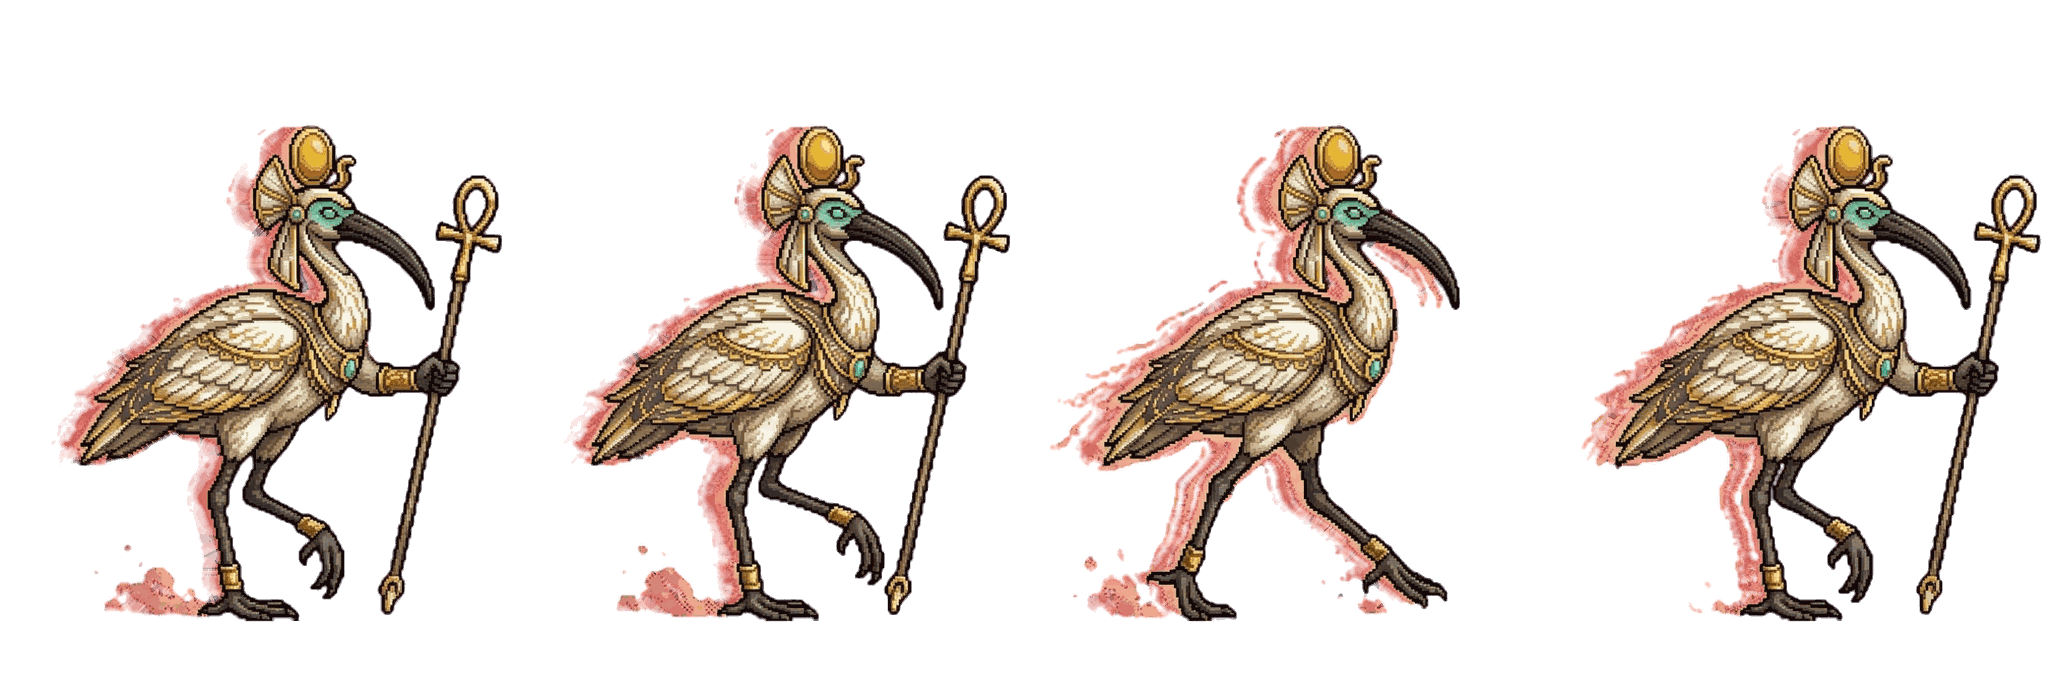
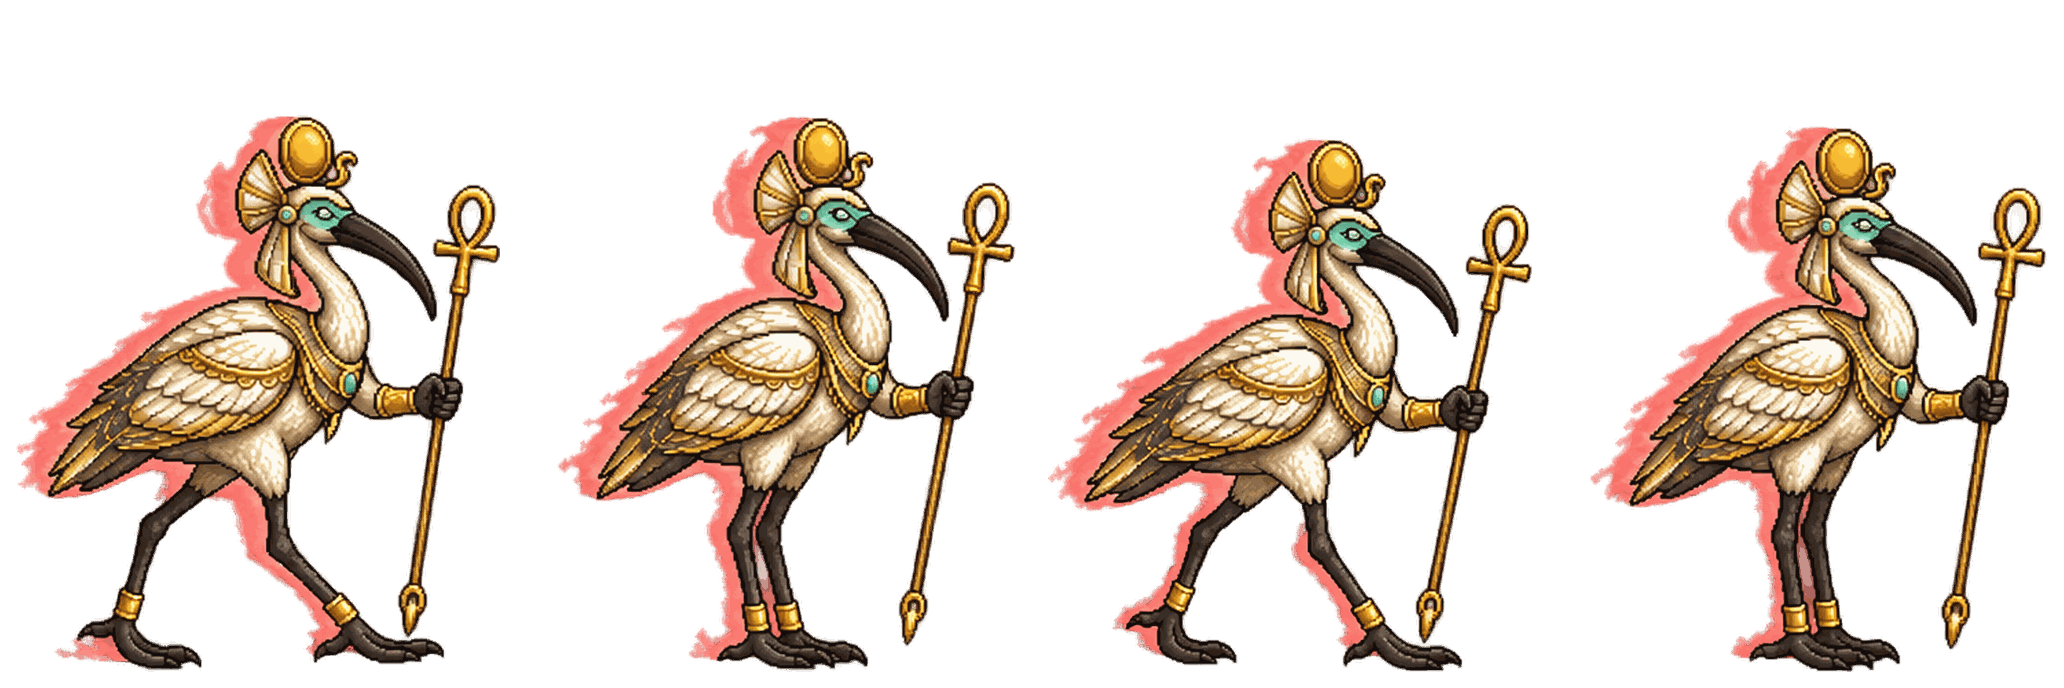
Round 270: the Mirage Ibis walks (#50)
Claude-Session: https://claude.ai/code/session_01XB2RMCaJ1aVVtBjSNk3FhS

diff --git a/assets/elaris-wildlife.js b/assets/elaris-wildlife.js
@@ -5,7 +5,7 @@ const ELARIS_WILDLIFE={
  // reworked to match. Ids stay the same so saves carry over. Rounds 193-195 gave them the owner's
  // own sheets (see ELARIS-ART.md).
  cinderFox:{name:'Solar Scarab',icon:'☼',hp:38,attack:7,element:'fire',sheet:'solar-scarab',cycle:'.8s'}, // Round 269: the owner's eight-frame walk (four frames used)
- drownedHeron:{name:'Mirage Ibis',icon:'≈',hp:55,attack:9,element:'water',sheet:'mirage-ibis',cycle:'1.4s'},
+ drownedHeron:{name:'Mirage Ibis',icon:'≈',hp:55,attack:9,element:'water',sheet:'mirage-ibis',cycle:'.8s'}, // Round 270: the owner's eight-frame walk (four frames used)
  blightAntler:{name:'Dune Scorpion',icon:'◆',hp:44,attack:8,element:'earth',sheet:'dune-scorpion',cycle:'1.2s'},
  stormMoth:{name:'Dust Devil',icon:'≋',hp:52,attack:9,element:'air',sheet:'dust-devil',cycle:'.7s'},
  // Round 22 mini-bosses (own sheets since Round 195).
@@ -42,7 +42,7 @@ const cityMonsterArt=monsterArt;
 // Round 196: a sheet name with a folder ('sky/zenith-roc') is read from assets/monsters/<folder>/;
 // big:true draws it in the larger boss box.
 // Round 200: bump SPRITE_VERSION when sheets are re-cut, so browsers fetch the new images.
-const SPRITE_VERSION='269';
+const SPRITE_VERSION='270';
 function wildlifeSheetUrl(sheet){return 'assets/monsters/'+(sheet.includes('/')?sheet:'elaris/'+sheet)+'.png?v='+SPRITE_VERSION}
 monsterArt=function(id){const animal=ELARIS_WILDLIFE[id]||WILDLIFE_ART[id];if(!animal)return cityMonsterArt(id);return '<span class="monster-sprite wildlife-sprite'+(animal.big?' bloom-tyrant':'')+'" role="img" aria-label="'+animal.name+'" style="background-image:url('+wildlifeSheetUrl(animal.sheet)+');--wildlife-cycle:'+animal.cycle+'"></span>'};
 // Round 249: a boss node's sprite box was square (142px, sized for Neon Aftermath's boss pictures), which

diff --git a/index.html b/index.html
@@ -551,7 +551,7 @@ if(localStorage.getItem(SAVE_KEY))$('resumeBtn').classList.remove('hidden');
 addEventListener('resize',()=>{fitWorld();fitMap();renderTalentConnectors()});fitWorld();
 requestAnimationFrame(loop);
 </script>
-<script src="assets/elaris-wildlife.js?v=round269"></script>
+<script src="assets/elaris-wildlife.js?v=round270"></script>
 <script src="assets/solaris-data.js?v=round232"></script>
 <script src="assets/expansion.js?v=round265"></script>
 <script src="assets/encounter-depth.js?v=round246"></script>

diff --git a/CHANGES.md b/CHANGES.md
@@ -3496,6 +3496,15 @@ Playtest of Neon Aftermath's three relics (Moon Lens 5,4; Ember Sigil 5,7; Briar
 - Talent descriptions list the per-rank values. Tests updated: round76, chronospire,
   talent-matrix, card-variety, plating-armor.
 
+## Round 270: the Mirage Ibis walks
+
+- The owner sent an eight-frame, right-facing walk for Solaris's Mirage Ibis (`drownedHeron`). It steps with folded
+  wings, an upright ankh staff and a faint mirage fringe. The source strip is
+  `assets/monsters/elaris/src/mirage-ibis-walk8.png`.
+- Frames 1, 3, 5 and 7 are composed into `assets/monsters/elaris/mirage-ibis.png` (replacing the old sheet), then
+  padded. The cycle is .8s, down from 1.4s, to match the owner's timing.
+- `SPRITE_VERSION` 270. New `tests/mirage-ibis.test.cjs`.
+
 ## Round 269: the Solar Scarab walks
 
 - The owner sent an eight-frame, right-facing walk for Solaris's Solar Scarab (`cinderFox`). It is based on the

diff --git a/CLAUDE.md b/CLAUDE.md
@@ -4,7 +4,7 @@ Aethercede is a browser card-battler/exploration game in vanilla JS with no
 build step. Open `index.html` directly. `compendium.html` is the card
 gallery; `arena.html` is a standalone prototype and is left untouched.
 
-**Read `CHANGES.md` first.** Every round of work (Round 1 to Round 269) is
+**Read `CHANGES.md` first.** Every round of work (Round 1 to Round 270) is
 logged there with its reasoning. Add a new `## Round N:` entry for each
 change set.
 
